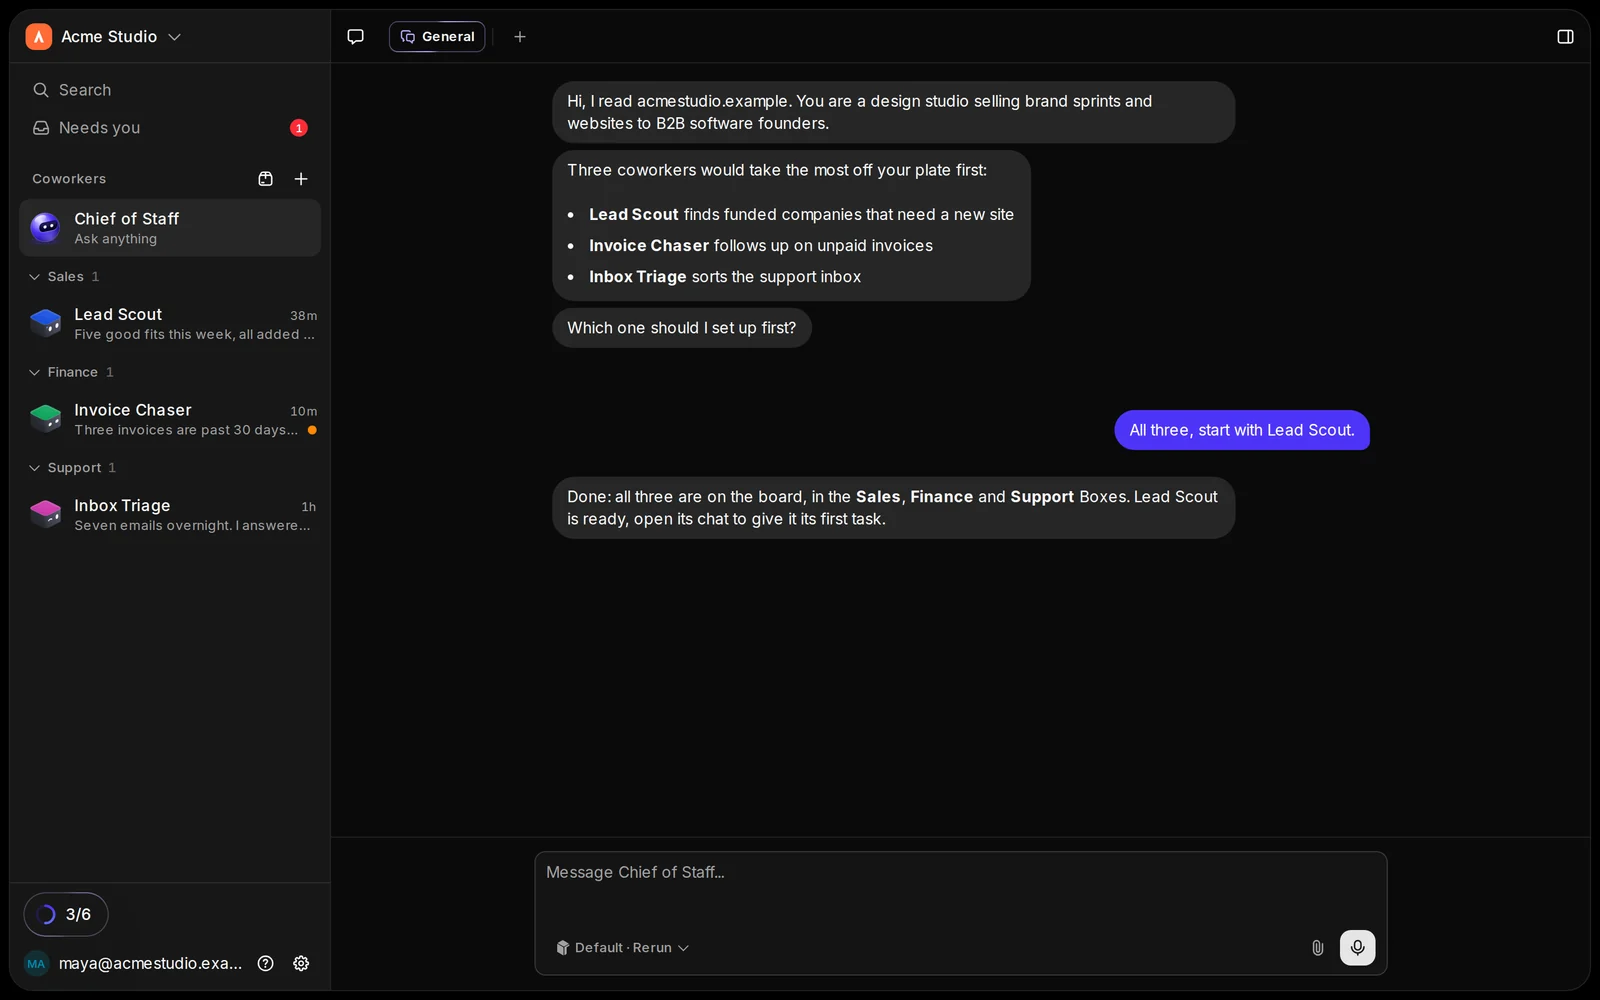
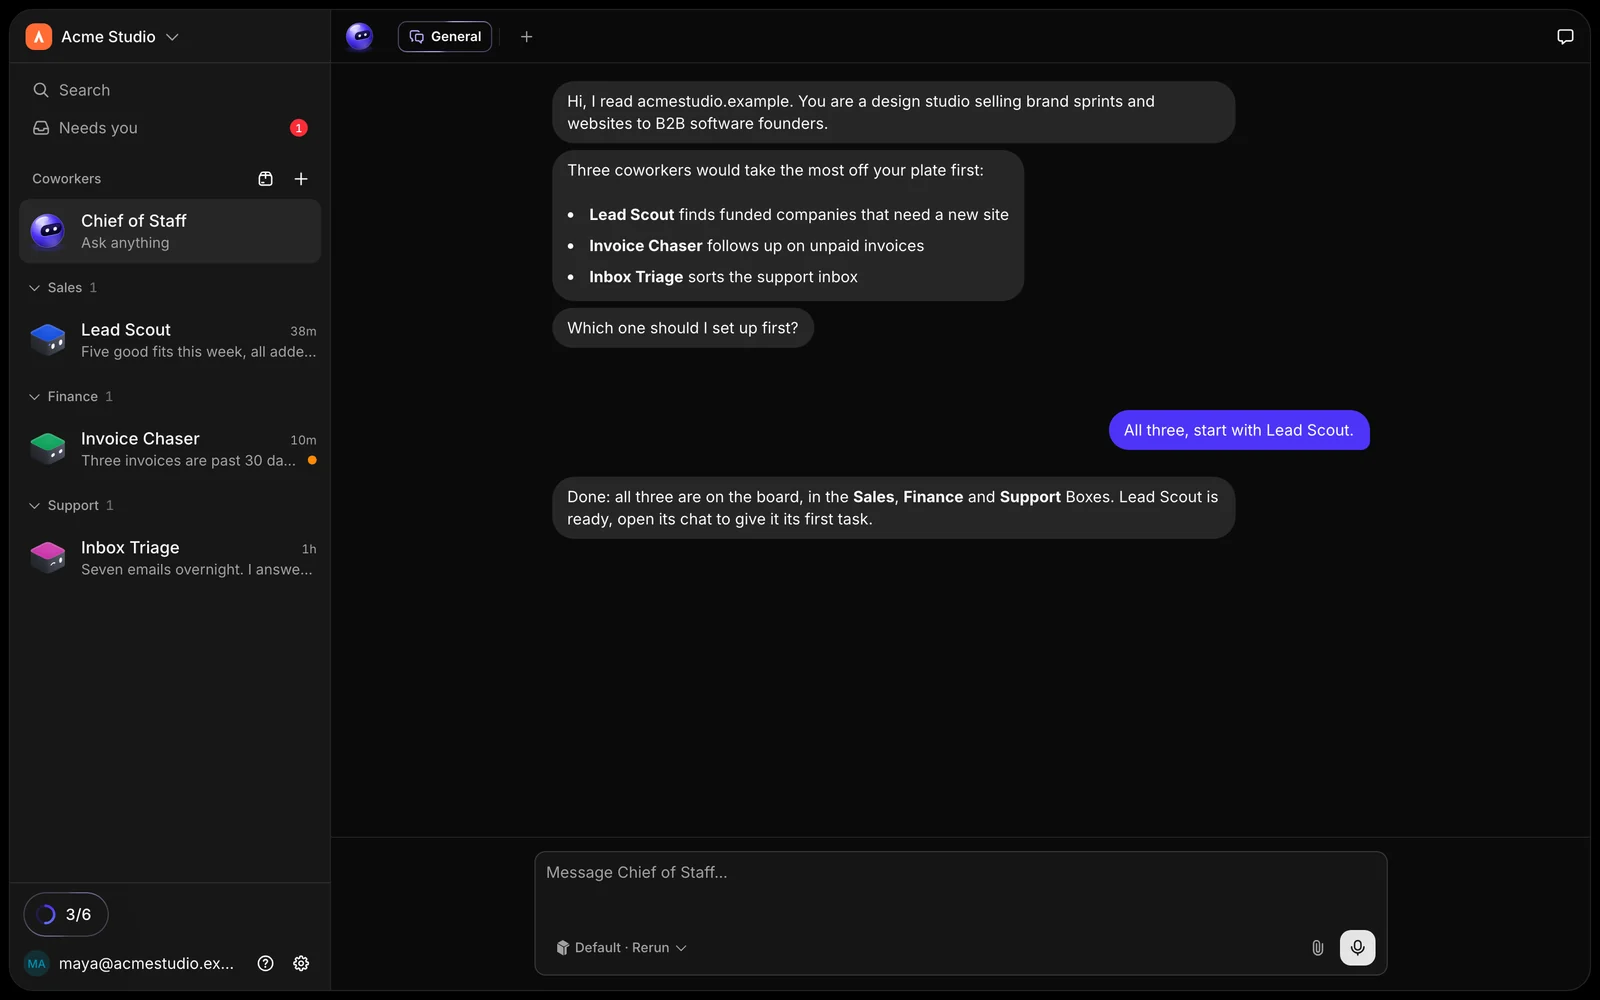
feat(ui): the chat's bar opens on the coworker, its history at the end (RER-173)
In the Simple view the chat's bar starts with the coworker's buddy (the
Chief of Staff's orb), which opens and closes its card, in place of the
panel icon. The conversations button moves to the end of the bar, its list
aligned on it. Docs and their captures follow.

diff --git a/apps/ui/components/agent/AgentPanelChat.tsx b/apps/ui/components/agent/AgentPanelChat.tsx
@@ -55,15 +55,15 @@ type AgentPanelChatProps = {
     onOpenChats?: () => void
     chatsAttention?: number
     // `floating`: the panel over the board, its tabs under the pills that float above the thread.
-    // `docked`: a column of its own, its tabs a header in the flow, with `headerEnd` at their right.
+    // `docked`: a column of its own, its tabs a header in the flow, with `headerStart` at their left and the conversations button at their right.
     presentation?: 'floating' | 'docked'
-    headerEnd?: ReactNode
+    headerStart?: ReactNode
     // Asked from outside the chat (a menu of the Simple view's list): a new conversation, once.
     newThreadRequest?: boolean
     onNewThreadConsumed?: () => void
 }
 
-export function AgentPanelChat({ agentId, agentName, selected, openSessionRequest, onOpenSessionConsumed, chats, onCloseChats, onOpenChats, chatsAttention = 0, presentation = 'floating', headerEnd, newThreadRequest = false, onNewThreadConsumed }: AgentPanelChatProps) {
+export function AgentPanelChat({ agentId, agentName, selected, openSessionRequest, onOpenSessionConsumed, chats, onCloseChats, onOpenChats, chatsAttention = 0, presentation = 'floating', headerStart, newThreadRequest = false, onNewThreadConsumed }: AgentPanelChatProps) {
     const t = useTranslations('agent.agentPanelChat')
     const tView = useTranslations('workspaceView.chat')
     const { tabs, activeIndex, createNew, selectTab, closeTab, openTab, updateTabByUid, updateTabTitle, setGeneralSessionId } = useSessionTabs(agentId)
@@ -268,6 +268,8 @@ export function AgentPanelChat({ agentId, agentName, selected, openSessionReques
         <div className={cn('flex flex-col h-full', docked && '[--chat-column:48rem]')}>
             {docked ? (
                 <div className="flex min-h-12 shrink-0 items-center gap-1 border-b border-border px-2">
+                    {headerStart}
+                    <div className="min-w-0 flex-1">{openChatsTabs}</div>
                     <Popover open={chats !== null} onOpenChange={open => (open ? onOpenChats?.() : onCloseChats())}>
                         <TooltipLabeled label={tView('allConversations')}>
                             <PopoverTrigger asChild>
@@ -281,7 +283,7 @@ export function AgentPanelChat({ agentId, agentName, selected, openSessionReques
                         </TooltipLabeled>
                         {/* A menu item or a dialog that opens the list hands the focus back to where it came from: only a click outside or Escape closes it. A field keeps its own Escape. */}
                         <PopoverContent
-                            align="start"
+                            align="end"
                             onFocusOutside={event => event.preventDefault()}
                             onEscapeKeyDown={event => isTypingTarget(event.target) && event.preventDefault()}
                             className="max-h-[min(36rem,var(--radix-popover-content-available-height))] w-[min(340px,calc(100vw-1.5rem))] gap-0 overflow-hidden p-0"
@@ -289,8 +291,6 @@ export function AgentPanelChat({ agentId, agentName, selected, openSessionReques
                             {chatsList}
                         </PopoverContent>
                     </Popover>
-                    <div className="min-w-0 flex-1">{openChatsTabs}</div>
-                    {headerEnd}
                 </div>
             ) : (
                 <>

diff --git a/apps/ui/components/workspace-view/SimpleChatPane.tsx b/apps/ui/components/workspace-view/SimpleChatPane.tsx
@@ -1,5 +1,6 @@
 'use client'
 
+import { AgentBuddy } from '@rerun/ui/iso-grid'
 import { useTranslations } from 'next-intl'
 import { memo, useMemo } from 'react'
 
@@ -46,8 +47,6 @@ export const SimpleChatPane = memo(function SimpleChatPane({ chats, onChatsChang
     const locked = !!agent && (access !== 'live' || !!agent.disabledAt)
     const attentionCount = useMemo(() => sessions.filter(s => s.agentId === selectedAgentId && ATTENTION_STATUSES.has(s.status)).length, [sessions, selectedAgentId])
 
-    const headerEnd = <DetailsToggle label={t('card')} />
-
     return (
         <section aria-label={agent?.name} className="relative flex h-full min-h-0 min-w-0 flex-1 flex-col bg-background">
             {openedAgentIds.map(id => (
@@ -61,7 +60,7 @@ export const SimpleChatPane = memo(function SimpleChatPane({ chats, onChatsChang
                         onCloseChats={() => onChatsChange(null)}
                         onOpenChats={() => onChatsChange('all')}
                         chatsAttention={selectedAgentId === id ? attentionCount : 0}
-                        headerEnd={headerEnd}
+                        headerStart={<DetailsToggle label={t('card')} avatar={<AgentBuddy agentId={id} size={28} facing="right" />} />}
                         openSessionRequest={selectedAgentId === id ? openSessionRequest : null}
                         onOpenSessionConsumed={onOpenSessionConsumed}
                         newThreadRequest={newThreadFor === id}
@@ -82,12 +81,12 @@ export const SimpleChatPane = memo(function SimpleChatPane({ chats, onChatsChang
 
 const TAB_WIDTHS = ['w-16', 'w-28']
 
-// The docked chat's frame: the conversations button, the tabs, the card button, the conversation's column, the composer.
+// The docked chat's frame: the card button, the tabs, the conversations button, the conversation's column, the composer.
 function ChatPaneSkeleton() {
     return (
         <div aria-hidden className="flex h-full flex-col">
             <div className="flex min-h-12 shrink-0 items-center gap-1 border-b border-border px-2">
-                <Skeleton className="size-8 rounded-md" />
+                <Skeleton className="size-9 rounded-md" />
                 <div className="flex min-w-0 flex-1 items-center gap-1 px-3">
                     {TAB_WIDTHS.map(width => (
                         <Skeleton key={width} className={cn('h-7 rounded-md', width)} />

diff --git a/apps/ui/components/foreman/ForemanTopBar.tsx b/apps/ui/components/foreman/ForemanTopBar.tsx
@@ -19,17 +19,18 @@ type ForemanTopBarProps = {
     onShowGeneral: () => void
     onOpenThread: (id: string) => void
     onNewTask: () => void
-    /** The button to every conversation and the list it opens. */
+    /** What opens the bar: the button to the Chief of Staff's card. */
+    start?: ReactNode
+    /** The button to every conversation and the list it opens, at the end of the bar. */
     history?: ReactNode
-    end?: ReactNode
 }
 
 /**
  * The Chief of Staff's bar in the Simple view's middle, the one a coworker's chat has: General pinned
- * first, then the threads opened here, kept across reloads, then what sits at the end. The store says
+ * first, then the threads opened here, kept across reloads, between its card button and its history. The store says
  * which conversation is on screen; the tabs follow it, whoever opened it (+, the history, a notification).
  */
-export function ForemanTopBar({ sessionId, inThread, blankDraft, threads, onShowGeneral, onOpenThread, onNewTask, history, end }: ForemanTopBarProps) {
+export function ForemanTopBar({ sessionId, inThread, blankDraft, threads, onShowGeneral, onOpenThread, onNewTask, start, history }: ForemanTopBarProps) {
     const t = useTranslations('foreman.threads')
     const generalTitle = t('general')
     const untitled = t('untitled')
@@ -75,11 +76,11 @@ export function ForemanTopBar({ sessionId, inThread, blankDraft, threads, onShow
 
     return (
         <div className="flex min-h-12 shrink-0 items-center gap-1 border-b border-border px-2">
-            {history}
+            {start}
             <div className="min-w-0 flex-1">
                 <OpenChatsTabs tabs={shownTabs} activeIndex={activeIndex} onSelect={show} onClose={close} onCreate={onNewTask} statusOf={tab => (tab.id ? rowById.get(tab.id)?.status : undefined)} />
             </div>
-            {end}
+            {history}
         </div>
     )
 }

diff --git a/apps/ui/components/workspace-view/DetailsToggle.tsx b/apps/ui/components/workspace-view/DetailsToggle.tsx
@@ -1,20 +1,29 @@
 'use client'
 
-import { Button } from '@/components/ui/button'
+import type { ReactNode } from 'react'
+
 import { TooltipLabeled } from '@/components/ui/tooltip'
 import { useDetailsOpen } from '@/components/workspace-view/useDetailsOpen'
-import { PanelRightIcon } from '@/lib/icons'
 import { cn } from '@/lib/utils'
 import { useSimpleDetailsStore } from '@/stores/simple-details.store'
 
-/** At the end of the chat's bar: opens or closes the column beside it, for a coworker and the Chief of Staff alike. */
-export function DetailsToggle({ label }: { label: string }) {
+/**
+ * At the start of the chat's bar: the coworker's buddy, or the Chief of Staff's orb, which opens or
+ * closes the card beside the chat. A plain button: the kit's shrinks every svg inside it to an icon's size.
+ */
+export function DetailsToggle({ label, avatar }: { label: string; avatar: ReactNode }) {
     const open = useDetailsOpen()
     return (
         <TooltipLabeled label={label}>
-            <Button variant="ghost" size="icon-sm" aria-label={label} aria-pressed={open} onClick={() => useSimpleDetailsStore.getState().setWanted(!open)} className={cn(open && 'bg-accent')}>
-                <PanelRightIcon className="size-4" />
-            </Button>
+            <button
+                type="button"
+                aria-label={label}
+                aria-pressed={open}
+                onClick={() => useSimpleDetailsStore.getState().setWanted(!open)}
+                className={cn('flex size-9 shrink-0 items-center justify-center rounded-md transition-colors outline-none hover:bg-muted focus-visible:ring-3 focus-visible:ring-ring/50 dark:hover:bg-muted/50', open && 'bg-accent')}
+            >
+                {avatar}
+            </button>
         </TooltipLabeled>
     )
 }

diff --git a/apps/ui/components/foreman/ForemanColumn.tsx b/apps/ui/components/foreman/ForemanColumn.tsx
@@ -16,6 +16,7 @@ import { arrivalStepOf } from '@/components/foreman/arrival/flow'
 import { ForemanChatLayer } from '@/components/foreman/ForemanChatLayer'
 import { ForemanHeader } from '@/components/foreman/ForemanHeader'
 import { ForemanHistory } from '@/components/foreman/ForemanHistory'
+import { Orb } from '@/components/foreman/Orb'
 import { ForemanTopBar } from '@/components/foreman/ForemanTopBar'
 import { ForemanCard } from '@/components/foreman/ForemanCard'
 import { ForemanDetails } from '@/components/foreman/ForemanDetails'
@@ -491,7 +492,7 @@ export function ForemanColumn({ open, placement, pinned = false }: { open: boole
                             onShowGeneral={backToGeneral}
                             onOpenThread={openThread}
                             onNewTask={startNewChat}
-                            end={<DetailsToggle label={tView('card', foremanName)} />}
+                            start={<DetailsToggle label={tView('card', foremanName)} avatar={<Orb size={24} facing="right" />} />}
                             history={hasThreads && <ForemanHistory inBar open={historyOpen} onOpenChange={setHistoryOpen} waiting={threadWaiting} entries={threadEntries} activeThreadId={inThread ? sessionId : null} onOpenGeneral={backToGeneral} onOpenThread={openThread} onNewTask={startNewChat} />}
                         />
                     ) : (

diff --git a/apps/ui/components/foreman/ForemanHistory.tsx b/apps/ui/components/foreman/ForemanHistory.tsx
@@ -58,7 +58,7 @@ export function ForemanHistory({ open, onOpenChange, waiting, entries, activeThr
                 </PopoverTrigger>
             </TooltipLabeled>
             {/* A React child of the header, whose pointer down drags the column and resizes its sheet: a press in the list stops here. */}
-            <PopoverContent align={inBar ? 'start' : 'end'} onPointerDown={event => event.stopPropagation()} className="max-h-[min(32rem,var(--radix-popover-content-available-height))] w-[min(360px,calc(100vw-1.5rem))] gap-0 overflow-hidden p-0">
+            <PopoverContent align="end" onPointerDown={event => event.stopPropagation()} className="max-h-[min(32rem,var(--radix-popover-content-available-height))] w-[min(360px,calc(100vw-1.5rem))] gap-0 overflow-hidden p-0">
                 <div className="flex min-h-0 flex-col">
                     <div className="flex shrink-0 flex-wrap items-center justify-between gap-2 px-3 pt-3 pb-1">
                         <span className="flex items-center gap-2 pl-1 text-sm font-semibold">
